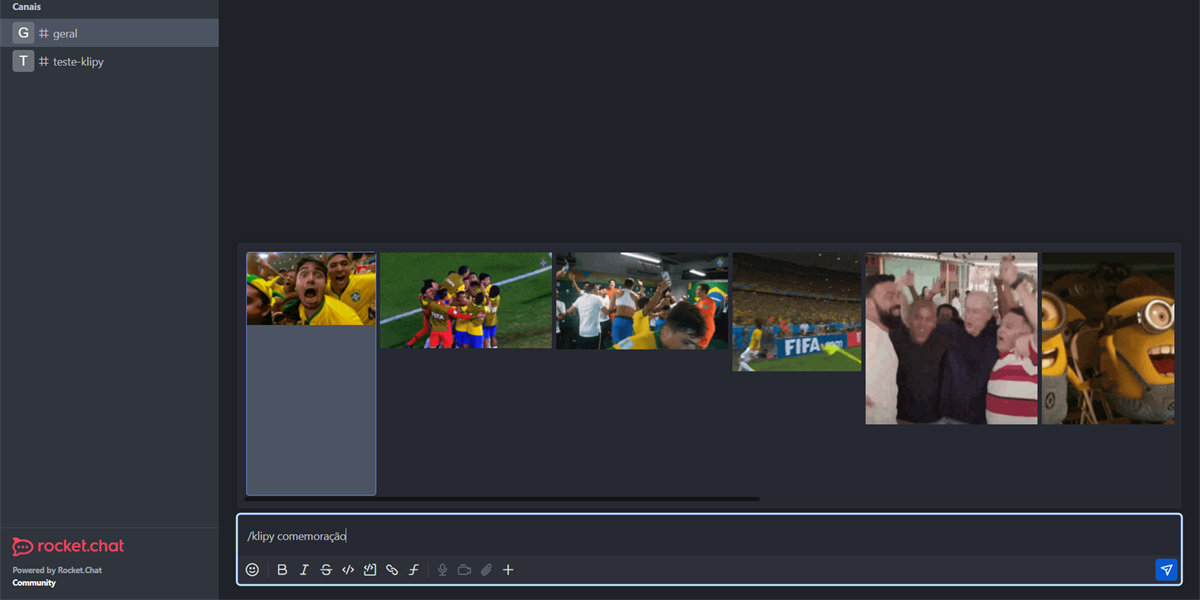
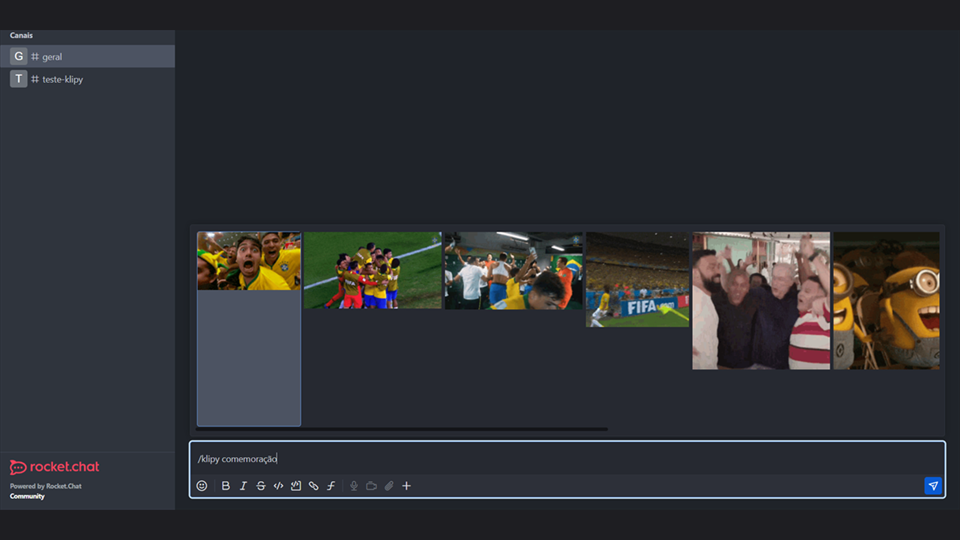
fix(docs): screenshots em 960x540 (16:9), nao 1200x600
O formulario de submissao exige 16:9; a documentacao do Rocket.Chat menciona
1200x600, que e 2:1. Reconvertidas por encaixe, nao recorte -- cortar as
laterais decepava o rotulo da comparacao pt/en e a barra lateral da galeria.

diff --git a/docs/marketplace-submission.md b/docs/marketplace-submission.md
@@ -15,7 +15,7 @@ Não abra a submissão antes de fechar todos estes.
 | 0.1b | [manual-test-plan.md](manual-test-plan.md) completo | ⚪ Opcional para a 0.1.0; recomendado antes de divulgar |
 | 0.2 | Confirmar o contrato da API contra a API real do KLIPY | ✅ Feito em 04/08/2026 — `/v2/search` 100%, um bug em `/v2/posts` corrigido |
 | 0.3 | Preencher a matriz de compatibilidade do README com resultados observados | ✅ Feito — 6.13 testado, 7.10 parcial, ambos documentados |
-| 0.4 | Produzir as cinco screenshots | ✅ Feito — `docs/screenshots/`, 1200×600, chave mascarada |
+| 0.4 | Produzir as cinco screenshots | ✅ Feito — `docs/screenshots/`, **960×540 (16:9)**, chave mascarada |
 | 0.5 | Acesso de produção da chave KLIPY | ➖ Não se aplica — **cada workspace usa a própria chave** e solicita produção por conta. A nossa serve só para desenvolvimento e testes |
 | 0.6 | Confirmar com o KLIPY a cláusula de requisições originadas no cliente (§4 abaixo) | 🟡 Declarado no cadastro em 04/08/2026 — aguardando retorno |
 | 0.7 | URLs públicas (suporte, termos, privacidade) | ✅ Feito — repositório público, as três respondem HTTP 200 |
@@ -241,8 +241,17 @@ Registre aqui a data de envio e a resposta.
 
 ## 5. Screenshots ✅
 
-Cinco imagens em **1200 × 600**, em `docs/screenshots/`, capturadas em 04/08/2026 num
-Rocket.Chat 6.13 real.
+Cinco imagens em **960 × 540 (16:9)**, em `docs/screenshots/`, capturadas em 04/08/2026
+num Rocket.Chat 6.13 real.
+
+> ⚠ **O formato é 16:9, não 1200 × 600.** A documentação do Rocket.Chat menciona
+> 1200 × 600 (que é 2:1), mas o formulário de submissão exige *"aspect ratio 16:9 or
+> 960x540 pixels"*. Foi preciso reconverter as capturas.
+>
+> Ao reconverter, **encaixe, não recorte**. Cortar as laterais de 2:1 para 16:9 remove
+> 134px de largura e estraga o que estiver nas bordas — na primeira tentativa, isso
+> decepou o rótulo "Português" da imagem 5 e a barra lateral da imagem 3. As faixas de
+> 30px acima e abaixo custam menos que perder conteúdo.
 
 | # | Arquivo | Conteúdo | Verificação |
 |---|---|---|---|

diff --git a/README.md b/README.md
@@ -65,8 +65,8 @@ o seu administrador configurou. Ver [PRIVACY.md](PRIVACY.md).
 
 ## Screenshots
 
-Capturadas em 04/08/2026 num Rocket.Chat 6.13 real, em `1200 × 600` — o formato exigido
-pelo Publisher Portal.
+Capturadas em 04/08/2026 num Rocket.Chat 6.13 real, em `960 × 540` (16:9) — o formato
+exigido pelo Publisher Portal.
 
 | # | Arquivo | Conteúdo |
 |---|---|---|
